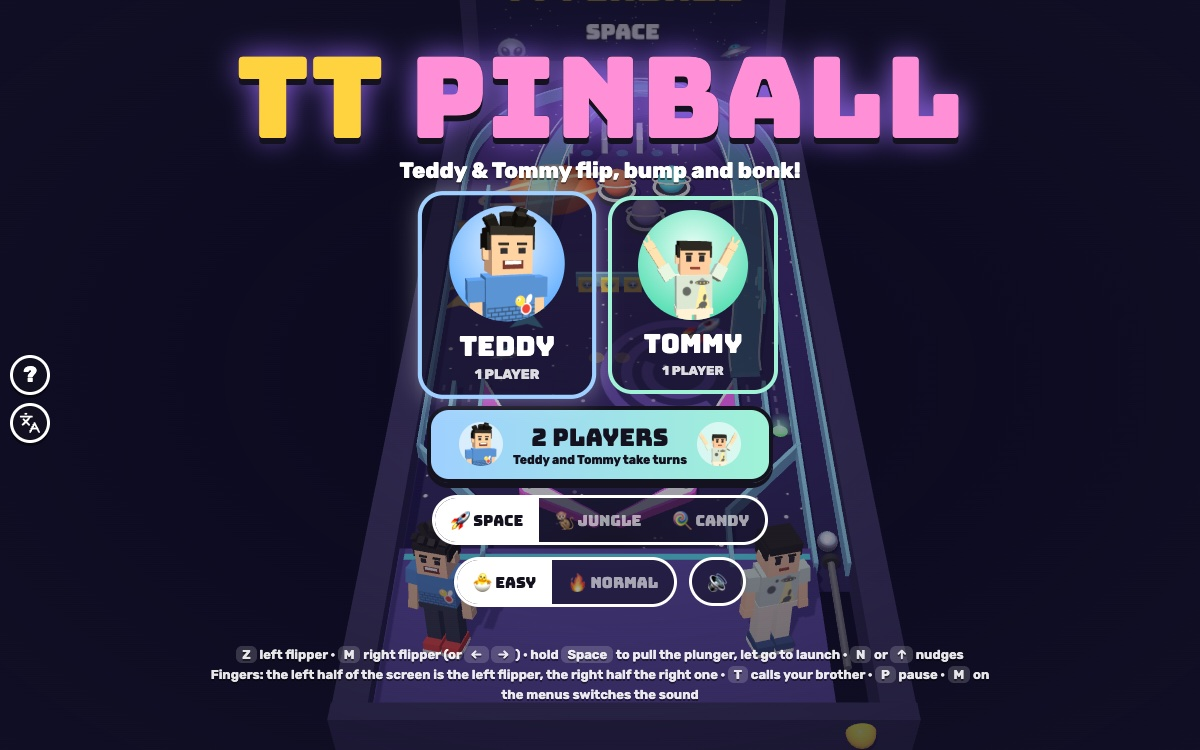
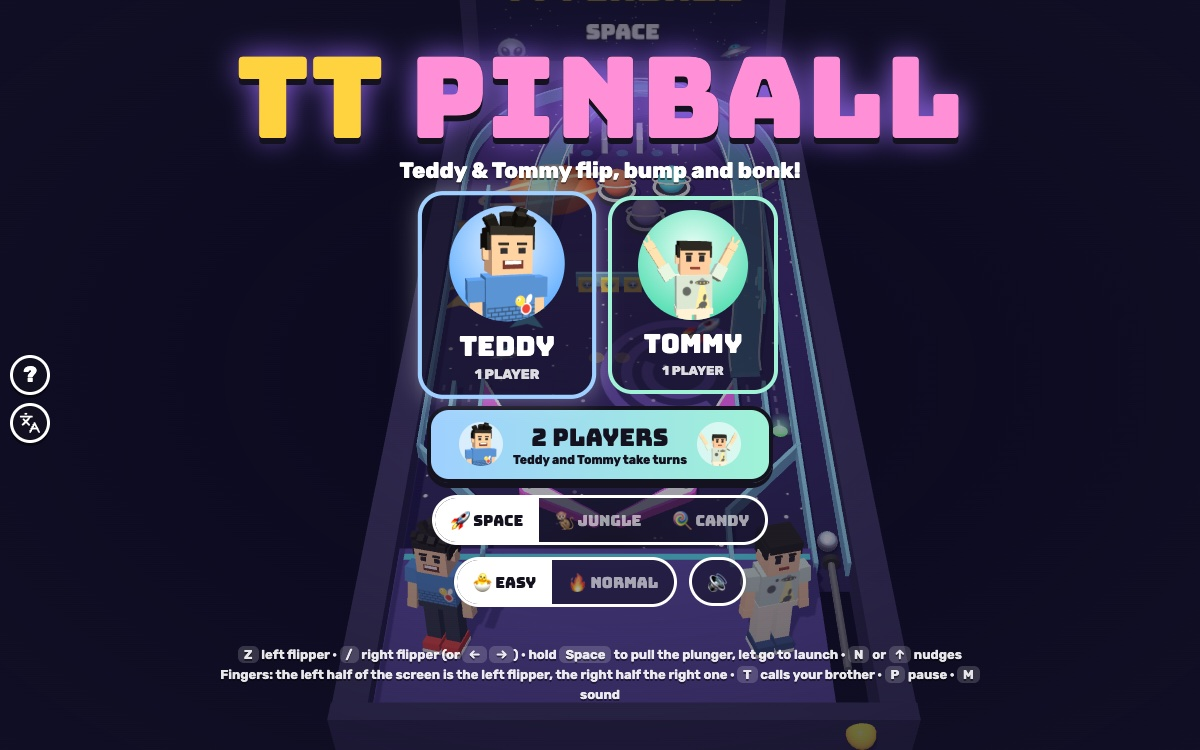
Right flipper on / and →, M is the sound key everywhere (no Shift flippers: Shift + / opens the keys panel)

Changed region(s): [[0.185, 0.8587, 0.8325, 0.9507], [0.6475, 0.736, 0.6783, 0.7667], [0.3392, 0.736, 0.37, 0.7667]]

diff --git a/dist/pinball-tt.html b/dist/pinball-tt.html
@@ -248,7 +248,7 @@
       <div class="row">
         <button class="ibtn" id="btnPause" title="Pause (P)">❚❚</button>
         <div class="pill" id="tableName"></div>
-        <button class="ibtn" id="btnMute" title="Sound">🔊</button>
+        <button class="ibtn" id="btnMute" title="Sound (M)">🔊</button>
       </div>
       <div id="tiltTag" class="hidden">TILT!</div>
     </div>
@@ -282,9 +282,9 @@
     <button class="chip" id="btnMute2">🔊</button>
   </div>
   <p class="best" id="bestLine"></p>
-  <p class="keys" data-zh="<kbd>Z</kbd> 左挡板 · <kbd>M</kbd> 右挡板（也可以用 <kbd>←</kbd> <kbd>→</kbd>）· 按住 <kbd>空格</kbd> 拉弹簧，松开发射 · <kbd>N</kbd> 或 <kbd>↑</kbd> 摇一摇<br>手指：左半边屏幕是左挡板，右半边是右挡板 · <kbd>T</kbd> 叫兄弟来帮忙 · <kbd>P</kbd> 暂停 · 在菜单里按 <kbd>M</kbd> 开关声音">
-    <kbd>Z</kbd> left flipper · <kbd>M</kbd> right flipper (or <kbd>←</kbd> <kbd>→</kbd>) · hold <kbd>Space</kbd> to pull the plunger, let go to launch · <kbd>N</kbd> or <kbd>↑</kbd> nudges<br>
-    Fingers: the left half of the screen is the left flipper, the right half the right one · <kbd>T</kbd> calls your brother · <kbd>P</kbd> pause · <kbd>M</kbd> on the menus switches the sound
+  <p class="keys" data-zh="<kbd>Z</kbd> 左挡板 · <kbd>/</kbd> 右挡板（也可以用 <kbd>←</kbd> <kbd>→</kbd>）· 按住 <kbd>空格</kbd> 拉弹簧，松开发射 · <kbd>N</kbd> 或 <kbd>↑</kbd> 摇一摇<br>手指：左半边屏幕是左挡板，右半边是右挡板 · <kbd>T</kbd> 叫兄弟来帮忙 · <kbd>P</kbd> 暂停 · <kbd>M</kbd> 声音">
+    <kbd>Z</kbd> left flipper · <kbd>/</kbd> right flipper (or <kbd>←</kbd> <kbd>→</kbd>) · hold <kbd>Space</kbd> to pull the plunger, let go to launch · <kbd>N</kbd> or <kbd>↑</kbd> nudges<br>
+    Fingers: the left half of the screen is the left flipper, the right half the right one · <kbd>T</kbd> calls your brother · <kbd>P</kbd> pause · <kbd>M</kbd> sound
   </p>
 </div>
 
@@ -4272,11 +4272,12 @@ PB.SUBTITLE = 'Teddy & Tommy flip, bump and bonk!';
   const tapped = new Set(); // pressed since the last step: a quick tap still flips even if released before the next frame
   const fingers = new Map(); // pointerId -> 'L' | 'R'
   let nudgeTap = false;
-  const LEFT = ['KeyZ', 'ArrowLeft', 'ShiftLeft'], RIGHT = ['KeyM', 'Slash', 'ArrowRight', 'ShiftRight'], PLUNGE = ['Space', 'ArrowDown'], NUDGE = ['KeyN', 'ArrowUp'];
+  // (no Shift keys: Shift held for a flipper plus / for the other would type ? and open the keys panel)
+  const LEFT = ['KeyZ', 'ArrowLeft'], RIGHT = ['Slash', 'ArrowRight'], PLUNGE = ['Space', 'ArrowDown'], NUDGE = ['KeyN', 'ArrowUp'];
 
   addEventListener('keydown', (e) => {
     S.init();
-    if (/^Arrow|^Space$/.test(e.code)) e.preventDefault();
+    if (/^Arrow|^Space$|^Slash$/.test(e.code)) e.preventDefault(); // (a bare / opens Quick Find in Firefox)
     const fresh = !keys.has(e.code);
     keys.add(e.code);
     tapped.add(e.code);
@@ -4287,8 +4288,7 @@ PB.SUBTITLE = 'Teddy & Tommy flip, bump and bonk!';
 
   function onKey(code) {
     const sc = G.screen;
-    // M is the right flipper while a ball is in play (the brief's Z / M); everywhere else it's the sound switch
-    if (code === 'KeyM' && sc !== 'play') return toggleMute();
+    if (code === 'KeyM') return toggleMute();
     if (sc === 'play') {
       if (code === 'KeyT' || code === 'Enter' || code === 'NumpadEnter') callBuddy();
       else if (code === 'KeyP' || code === 'Escape') pause();
@@ -4825,13 +4825,13 @@ Kit.help.setup({
   title: PB.TITLE,
   keys: [
     ['left flipper', 'Z or ←'],
-    ['right flipper', 'M or →'],
+    ['right flipper', '/ or →'],
     ['pull the plunger · let go to launch', 'hold Space or ↓'],
     ['nudge the table (not too much!)', 'N or ↑'],
     ['call your brother · high five', 'T or Enter'],
     ['pause · sound', 'P or Esc · M'],
   ],
-  note: 'M switches the sound on the menus; while a ball is in play, M is the right flipper and the 🔊 button at the top switches the sound. The Shift keys flip too. 2 players take turns, a ball each, with the same keys.',
+  note: '2 players take turns, a ball each, with the same keys.',
   touch: 'The left half of the screen is the left flipper, the right half the right one. While the ball waits by the plunger, hold a finger down, then let go to launch. NUDGE shakes the table. The round face button (top right) calls your brother.',
 });
 
@@ -4839,7 +4839,7 @@ Kit.help.setup({
 <script>
 /* 中文 for TT Pinball: the words on the page, the toasts, the table names (also painted on the backbox through
    Kit.lang.t in js/view.js), and the ? panel. Stays in English on purpose: the kids' names (TEDDY, TOMMY) and the
-   game's name (Alan picks the names), and the key labels (Z, M, Space shows as 空格 through the kit).
+   game's name (Alan picks the names), and the key labels (Z, /, M, Space shows as 空格 through the kit).
    Kid-friendly words: 弹珠台 (pinball table), 弹簧 (the plunger's spring), 挡板 (flipper), 多球 (MULTIBALL). */
 (function () {
   const L = Kit.lang;
@@ -4856,7 +4856,7 @@ Kit.help.setup({
     '🚀 SPACE': '🚀 太空', '🐒 JUNGLE': '🐒 丛林', '🍭 CANDY': '🍭 糖果',
     '🐣 EASY': '🐣 简单', '🔥 NORMAL': '🔥 普通',
     // HUD
-    'Pause (P)': '暂停 (P)', Sound: '声音', 'press T': '按 T', 'tap for more help': '再点一下，再帮你一次',
+    'Pause (P)': '暂停 (P)', 'Sound (M)': '声音 (M)', 'press T': '按 T', 'tap for more help': '再点一下，再帮你一次',
     'HIGH FIVE! ✋': '击掌！✋', NUDGE: '摇一摇',
     'HOLD SPACE, THEN LET GO!': '按住空格拉弹簧，再松开！', 'HOLD YOUR FINGER DOWN, THEN LET GO!': '按住屏幕拉弹簧，再松开！',
     // toasts
@@ -4874,10 +4874,9 @@ Kit.help.setup({
     // the ? panel
     'left flipper': '左挡板', 'right flipper': '右挡板', 'pull the plunger · let go to launch': '拉弹簧 · 松开就发射',
     'nudge the table (not too much!)': '摇一摇弹珠台（别摇太多！）', 'call your brother · high five': '叫兄弟来帮忙 · 击掌',
-    'Z or ←': 'Z 或 ←', 'M or →': 'M 或 →', 'hold Space or ↓': '按住 空格 或 ↓',
+    'Z or ←': 'Z 或 ←', '/ or →': '/ 或 →', 'hold Space or ↓': '按住 空格 或 ↓',
     'N or ↑': 'N 或 ↑', 'T or Enter': 'T 或 回车', 'P or Esc · M': 'P 或 Esc · M',
-    'M switches the sound on the menus; while a ball is in play, M is the right flipper and the 🔊 button at the top switches the sound. The Shift keys flip too. 2 players take turns, a ball each, with the same keys.':
-      '在菜单里按 M 开关声音；玩的时候 M 是右挡板，上面的 🔊 按钮开关声音。两个 Shift 键也能打挡板。双人时两个人轮流，每人打一个球，用一样的按键。',
+    '2 players take turns, a ball each, with the same keys.': '双人时两个人轮流，每人打一个球，用一样的按键。',
     'The left half of the screen is the left flipper, the right half the right one. While the ball waits by the plunger, hold a finger down, then let go to launch. NUDGE shakes the table. The round face button (top right) calls your brother.':
       '左半边屏幕是左挡板，右半边是右挡板。球在弹簧旁边等着的时候，按住屏幕再松开就能发射。“摇一摇”按钮可以摇弹珠台。右上角的圆形头像按钮可以叫兄弟来帮忙。',
   });

diff --git a/js/zh.js b/js/zh.js
@@ -1,6 +1,6 @@
 /* 中文 for TT Pinball: the words on the page, the toasts, the table names (also painted on the backbox through
    Kit.lang.t in js/view.js), and the ? panel. Stays in English on purpose: the kids' names (TEDDY, TOMMY) and the
-   game's name (Alan picks the names), and the key labels (Z, M, Space shows as 空格 through the kit).
+   game's name (Alan picks the names), and the key labels (Z, /, M, Space shows as 空格 through the kit).
    Kid-friendly words: 弹珠台 (pinball table), 弹簧 (the plunger's spring), 挡板 (flipper), 多球 (MULTIBALL). */
 (function () {
   const L = Kit.lang;
@@ -17,7 +17,7 @@
     '🚀 SPACE': '🚀 太空', '🐒 JUNGLE': '🐒 丛林', '🍭 CANDY': '🍭 糖果',
     '🐣 EASY': '🐣 简单', '🔥 NORMAL': '🔥 普通',
     // HUD
-    'Pause (P)': '暂停 (P)', Sound: '声音', 'press T': '按 T', 'tap for more help': '再点一下，再帮你一次',
+    'Pause (P)': '暂停 (P)', 'Sound (M)': '声音 (M)', 'press T': '按 T', 'tap for more help': '再点一下，再帮你一次',
     'HIGH FIVE! ✋': '击掌！✋', NUDGE: '摇一摇',
     'HOLD SPACE, THEN LET GO!': '按住空格拉弹簧，再松开！', 'HOLD YOUR FINGER DOWN, THEN LET GO!': '按住屏幕拉弹簧，再松开！',
     // toasts
@@ -35,10 +35,9 @@
     // the ? panel
     'left flipper': '左挡板', 'right flipper': '右挡板', 'pull the plunger · let go to launch': '拉弹簧 · 松开就发射',
     'nudge the table (not too much!)': '摇一摇弹珠台（别摇太多！）', 'call your brother · high five': '叫兄弟来帮忙 · 击掌',
-    'Z or ←': 'Z 或 ←', 'M or →': 'M 或 →', 'hold Space or ↓': '按住 空格 或 ↓',
+    'Z or ←': 'Z 或 ←', '/ or →': '/ 或 →', 'hold Space or ↓': '按住 空格 或 ↓',
     'N or ↑': 'N 或 ↑', 'T or Enter': 'T 或 回车', 'P or Esc · M': 'P 或 Esc · M',
-    'M switches the sound on the menus; while a ball is in play, M is the right flipper and the 🔊 button at the top switches the sound. The Shift keys flip too. 2 players take turns, a ball each, with the same keys.':
-      '在菜单里按 M 开关声音；玩的时候 M 是右挡板，上面的 🔊 按钮开关声音。两个 Shift 键也能打挡板。双人时两个人轮流，每人打一个球，用一样的按键。',
+    '2 players take turns, a ball each, with the same keys.': '双人时两个人轮流，每人打一个球，用一样的按键。',
     'The left half of the screen is the left flipper, the right half the right one. While the ball waits by the plunger, hold a finger down, then let go to launch. NUDGE shakes the table. The round face button (top right) calls your brother.':
       '左半边屏幕是左挡板，右半边是右挡板。球在弹簧旁边等着的时候，按住屏幕再松开就能发射。“摇一摇”按钮可以摇弹珠台。右上角的圆形头像按钮可以叫兄弟来帮忙。',
   });

diff --git a/index.html b/index.html
@@ -248,7 +248,7 @@
       <div class="row">
         <button class="ibtn" id="btnPause" title="Pause (P)">❚❚</button>
         <div class="pill" id="tableName"></div>
-        <button class="ibtn" id="btnMute" title="Sound">🔊</button>
+        <button class="ibtn" id="btnMute" title="Sound (M)">🔊</button>
       </div>
       <div id="tiltTag" class="hidden">TILT!</div>
     </div>
@@ -282,9 +282,9 @@
     <button class="chip" id="btnMute2">🔊</button>
   </div>
   <p class="best" id="bestLine"></p>
-  <p class="keys" data-zh="<kbd>Z</kbd> 左挡板 · <kbd>M</kbd> 右挡板（也可以用 <kbd>←</kbd> <kbd>→</kbd>）· 按住 <kbd>空格</kbd> 拉弹簧，松开发射 · <kbd>N</kbd> 或 <kbd>↑</kbd> 摇一摇<br>手指：左半边屏幕是左挡板，右半边是右挡板 · <kbd>T</kbd> 叫兄弟来帮忙 · <kbd>P</kbd> 暂停 · 在菜单里按 <kbd>M</kbd> 开关声音">
-    <kbd>Z</kbd> left flipper · <kbd>M</kbd> right flipper (or <kbd>←</kbd> <kbd>→</kbd>) · hold <kbd>Space</kbd> to pull the plunger, let go to launch · <kbd>N</kbd> or <kbd>↑</kbd> nudges<br>
-    Fingers: the left half of the screen is the left flipper, the right half the right one · <kbd>T</kbd> calls your brother · <kbd>P</kbd> pause · <kbd>M</kbd> on the menus switches the sound
+  <p class="keys" data-zh="<kbd>Z</kbd> 左挡板 · <kbd>/</kbd> 右挡板（也可以用 <kbd>←</kbd> <kbd>→</kbd>）· 按住 <kbd>空格</kbd> 拉弹簧，松开发射 · <kbd>N</kbd> 或 <kbd>↑</kbd> 摇一摇<br>手指：左半边屏幕是左挡板，右半边是右挡板 · <kbd>T</kbd> 叫兄弟来帮忙 · <kbd>P</kbd> 暂停 · <kbd>M</kbd> 声音">
+    <kbd>Z</kbd> left flipper · <kbd>/</kbd> right flipper (or <kbd>←</kbd> <kbd>→</kbd>) · hold <kbd>Space</kbd> to pull the plunger, let go to launch · <kbd>N</kbd> or <kbd>↑</kbd> nudges<br>
+    Fingers: the left half of the screen is the left flipper, the right half the right one · <kbd>T</kbd> calls your brother · <kbd>P</kbd> pause · <kbd>M</kbd> sound
   </p>
 </div>
 

diff --git a/js/game.js b/js/game.js
@@ -32,11 +32,12 @@
   const tapped = new Set(); // pressed since the last step: a quick tap still flips even if released before the next frame
   const fingers = new Map(); // pointerId -> 'L' | 'R'
   let nudgeTap = false;
-  const LEFT = ['KeyZ', 'ArrowLeft', 'ShiftLeft'], RIGHT = ['KeyM', 'Slash', 'ArrowRight', 'ShiftRight'], PLUNGE = ['Space', 'ArrowDown'], NUDGE = ['KeyN', 'ArrowUp'];
+  // (no Shift keys: Shift held for a flipper plus / for the other would type ? and open the keys panel)
+  const LEFT = ['KeyZ', 'ArrowLeft'], RIGHT = ['Slash', 'ArrowRight'], PLUNGE = ['Space', 'ArrowDown'], NUDGE = ['KeyN', 'ArrowUp'];
 
   addEventListener('keydown', (e) => {
     S.init();
-    if (/^Arrow|^Space$/.test(e.code)) e.preventDefault();
+    if (/^Arrow|^Space$|^Slash$/.test(e.code)) e.preventDefault(); // (a bare / opens Quick Find in Firefox)
     const fresh = !keys.has(e.code);
     keys.add(e.code);
     tapped.add(e.code);
@@ -47,8 +48,7 @@
 
   function onKey(code) {
     const sc = G.screen;
-    // M is the right flipper while a ball is in play (the brief's Z / M); everywhere else it's the sound switch
-    if (code === 'KeyM' && sc !== 'play') return toggleMute();
+    if (code === 'KeyM') return toggleMute();
     if (sc === 'play') {
       if (code === 'KeyT' || code === 'Enter' || code === 'NumpadEnter') callBuddy();
       else if (code === 'KeyP' || code === 'Escape') pause();

diff --git a/js/keys.js b/js/keys.js
@@ -4,12 +4,12 @@ Kit.help.setup({
   title: PB.TITLE,
   keys: [
     ['left flipper', 'Z or ←'],
-    ['right flipper', 'M or →'],
+    ['right flipper', '/ or →'],
     ['pull the plunger · let go to launch', 'hold Space or ↓'],
     ['nudge the table (not too much!)', 'N or ↑'],
     ['call your brother · high five', 'T or Enter'],
     ['pause · sound', 'P or Esc · M'],
   ],
-  note: 'M switches the sound on the menus; while a ball is in play, M is the right flipper and the 🔊 button at the top switches the sound. The Shift keys flip too. 2 players take turns, a ball each, with the same keys.',
+  note: '2 players take turns, a ball each, with the same keys.',
   touch: 'The left half of the screen is the left flipper, the right half the right one. While the ball waits by the plunger, hold a finger down, then let go to launch. NUDGE shakes the table. The round face button (top right) calls your brother.',
 });

diff --git a/README.md b/README.md
@@ -86,16 +86,16 @@ never lose the ball for it.
 
 | | Keys | Touch |
 |---|---|---|
-| left flipper | Z or ← (or Left Shift) | the left half of the screen, or the ◀ pad |
-| right flipper | M or → (or Right Shift) | the right half of the screen, or the ▶ pad |
+| left flipper | Z or ← | the left half of the screen, or the ◀ pad |
+| right flipper | / or → | the right half of the screen, or the ▶ pad |
 | plunger | hold Space or ↓, let go to launch | while the ball waits on the plunger, hold any finger down, then let go |
 | nudge | N or ↑ | NUDGE (bottom middle) |
 | call your brother / high five | T or Enter | the round face button, top right |
-| pause / sound | P or Esc / M on the menus (🔊 at the top while playing) | ❚❚ / 🔊 at the top |
+| pause / sound | P or Esc / M | ❚❚ / 🔊 at the top |
 
-The brief asked for the flippers on **Z and M**, and every Teddy & Tommy game uses **M for sound**. So while a ball is
-in play M is the right flipper, and the sound switch is the 🔊 button at the top; on the title, pause and results
-screens M switches the sound as usual. The ? panel says so too.
+The brief asked for the flippers on Z and M, but every Teddy & Tommy game uses **M for sound**, so (Alan's choice) the
+right flipper is **/** and M is the sound key everywhere, as in the other games. There are no Shift-key flippers: Shift
+held for one flipper plus / for the other would type ? and open the keys panel in the middle of a ball.
 
 On the title: Enter or Space starts 1 player as the brother you picked last (← → to switch), 2 starts two players,
 E switches EASY / NORMAL, ↑ ↓ change the table.
